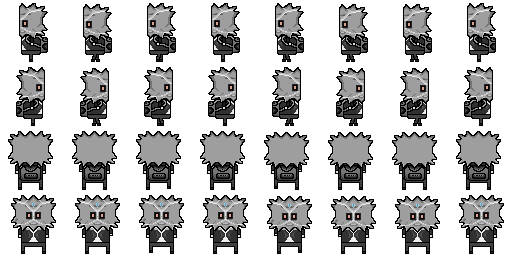
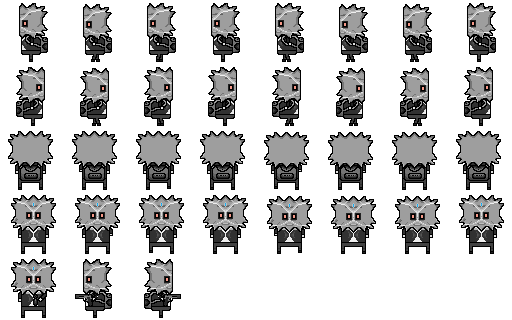
rummager shoots!

diff --git a/main.js b/main.js
@@ -493,10 +493,10 @@ function Rummager(game, enemy) {
 	this.upAnimation = new Animation(spritesheet,       0,    128,   64, 64, 0.1, 8, true,  false,  0.75);
 	this.downAnimation = new Animation(spritesheet,     0,    192,   64, 64, 0.1, 8, true,  false,  0.75);    
 	
-	this.leftAttackAnimation = new Animation(spritesheet,       0,    0,     64, 64, 0.1, 8, true,  false,  0.75);
-	this.rightAttackAnimation = new Animation(spritesheet,  0,    64,    64, 64, 0.1, 8, true,  false,  0.75);
-	this.upAttackAnimation = new Animation(spritesheet,     0,    128,   64, 64, 0.1, 8, true,  false,  0.75);
-	this.downAttackAnimation = new Animation(spritesheet,       0,    192,   64, 64, 0.1, 8, true,  false,  0.75);    
+	this.leftAttackAnimation = new Animation(spritesheet,   64,   256,   64, 64, 0.1, 1, true,  false,  0.75);
+	this.rightAttackAnimation = new Animation(spritesheet,  128,  256,   64, 64, 0.1, 1, true,  false,  0.75);
+	this.upAttackAnimation = new Animation(spritesheet,     0,    128,   64, 64, 0.1, 1, true,  false,  0.75);
+	this.downAttackAnimation = new Animation(spritesheet,   0,    256,   64, 64, 0.1, 1, true,  false,  0.75);    
 	this.animation = this.upAnimation;
 
 	this.game = game;
@@ -820,7 +820,7 @@ function Day(game) {
 	this.image = null;
  
 	this.elapsedTime = 0;
-	this.dayLength = 100; 
+	this.dayLength = 50; 
 	this.day = true;
 	this.time = "2:00";
 	this.lastSpawnTime = 0;
@@ -838,7 +838,6 @@ Day.prototype.update = function () {
 		this.elapsedTime = 0;
 		this.image = null;
 		this.day = true;
-		console.log("day");
 	} else if(this.elapsedTime > (this.dayLength * 0.60) ){
 		this.image = this.midnightImage;
 	} else if(this.elapsedTime > (this.dayLength * 0.55) ){ // || this.elapsedTime > (this.dayLength * 0.90)) {

diff --git a/index.html b/index.html
@@ -23,7 +23,7 @@
 					<li class="resources"><p>Robots</p> <div id="robotCount"> <img src="img/robot.png"/>0</div> </li>
 					<li class="resources"><p>Ship Health</p> <div id="myProgress"> <div id="shipHealth">0/0</div> </div> </li>
 					<li class="resources"><p>Player Health</p> <div id="myProgress"> <div id="playerHealth">0/0</div> </div> </li>
-					<li class="resources"><p>Time</p> <div id="time"> <img src="img/time.png"/> Day </div></li>
+					<li class="resources"><p>Time</p> <div id="time"> <img src="img/time.png"/> 2:00 </div></li>
 
 					<li class="soundControls"><p>Sound</p><img id="audioToggle" src="img/pause.png"/> </li>
 					<li class="soundControls"><p>Volume</p><img id="volumeDown" src="img/minus.png"/><img id="volumeUp" src="img/plus.png"/></li>
